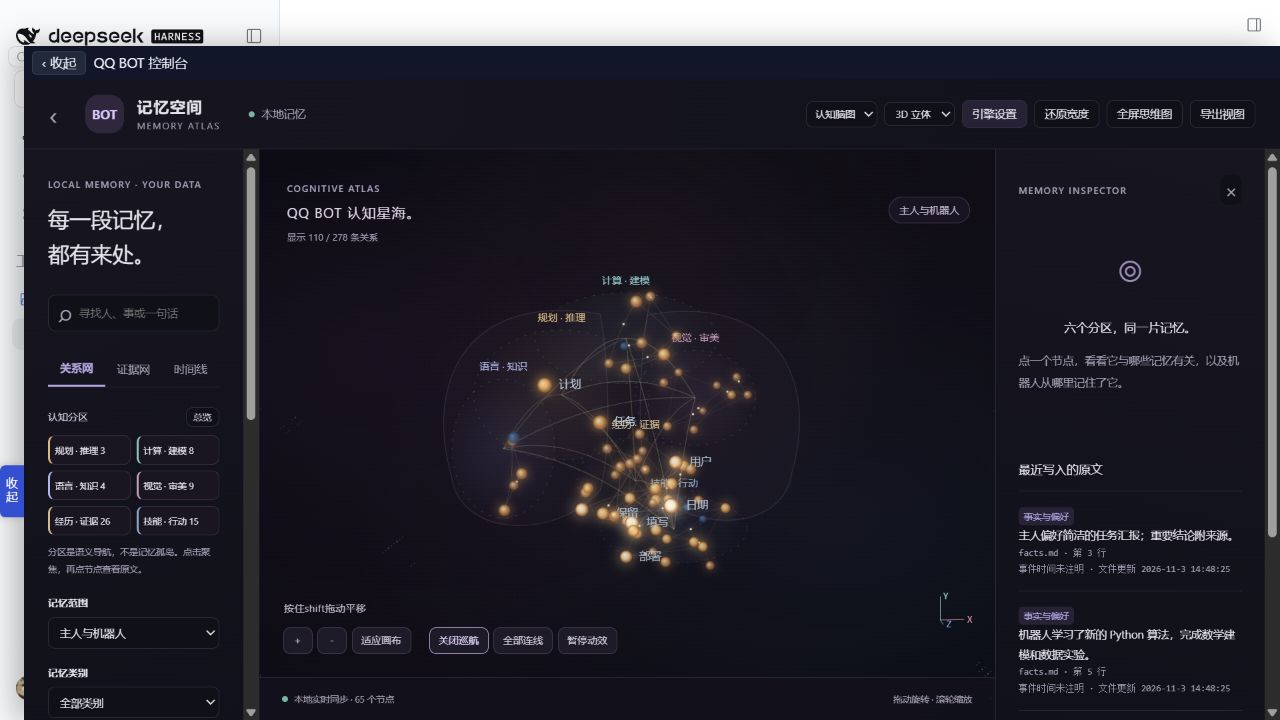
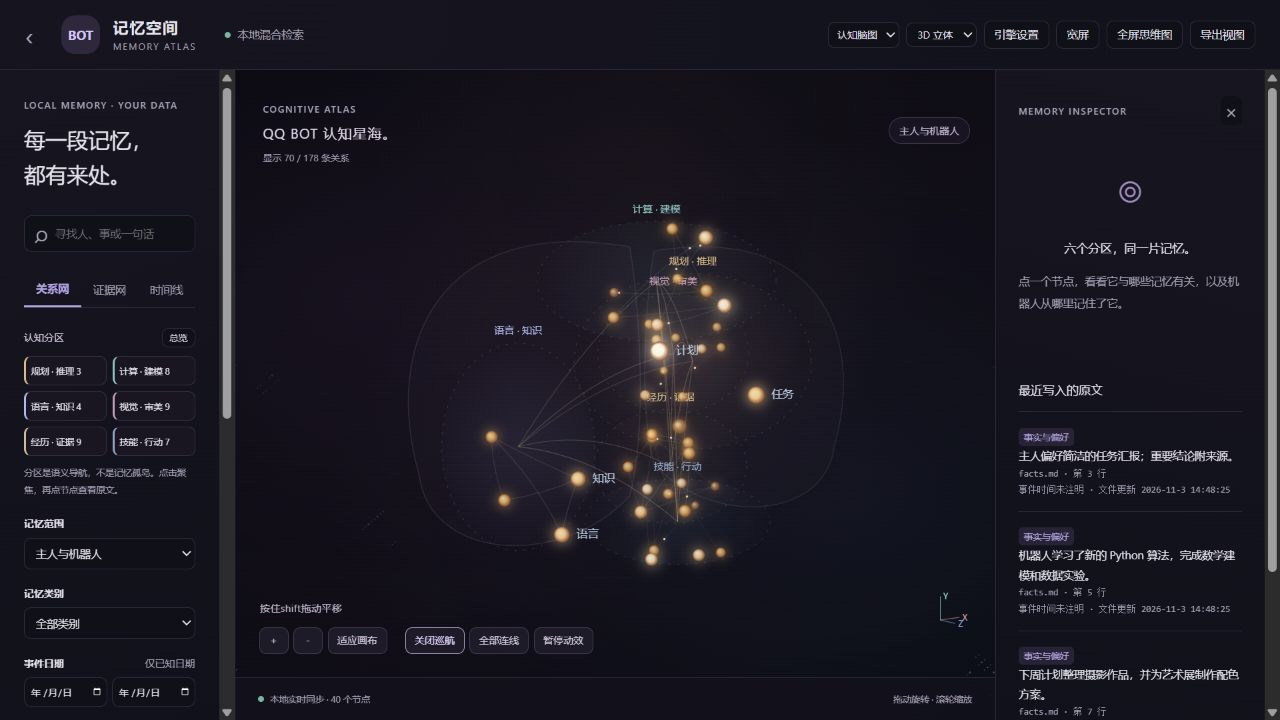
docs: add verified desktop GitHub install results and fresh demo screenshots

diff --git a/docs/VALIDATION.md b/docs/VALIDATION.md
@@ -1,0 +1,31 @@
+# v1.1.0 实际验证记录
+
+日期：2026-11-03。公开源码与截图仅使用虚构工作区；测试未登录 QQ、未发送消息、未复用正式桌面凭据。
+
+## 已执行
+
+| 项目 | 结果 |
+|---|---|
+| 旧版基线 `npm test` | 26 / 26 通过 |
+| 新版 `npm run check`、`npm test` | 语法通过，80 / 80 通过 |
+| 真模型 `npm run test:semantic` | 12 / 12 通过，非跳过；CPU ONNX 512 维、重排、SQLite 持久化、更新删除、隔离、预算、并发与降级 |
+| 公开记忆安装脚本 | Windows PowerShell 5.1 执行通过；独立 Python 3.11、固定依赖、模型文件 SHA256 校验；本次模型从本机已下载缓存复制，未重复验证远端全量下载 |
+| AstrBot 实际部署 | 固定官方源码、独立 Python 3.12.14；66 项 pyproject 依赖一致性检查通过 |
+| 官方 DSH 桥实际安装 | GitHub 固定提交校验通过；与 AstrBot 一同导入通过；再次部署保留已有桥接及工作区 |
+| NapCat 实际下载 | 固定 OneKey 包 SHA256 校验、解压通过；首次 QQ / 协议初始化明确为 partial |
+| DSH GitHub 拉取安装 | 桌面自带 CLI 0.2.1-rc.5，在全新隔离 profile 中从 GitHub 提交安装，pnpm 报告 1.1.0 |
+| 实际 DSH 宿主 | bundle 组合、侧栏注入、记忆页、CPU 混合检索原文返回、宽屏及全屏退出通过 |
+| 安装边界与数据保护 | 固定上游、模板只补缺失、已有桥不覆盖、下载失败不发布半成品、CSRF / 跨域拒绝、私有组件命名空间共存均有回归测试 |
+| 正式环境 | 正式 desktop profile 与原本地插件的 46 个基准文件 SHA256 保持不变 |
+
+新建隔离 profile 比把已有 `link:` 依赖直接替换为 GitHub 依赖更稳妥。测试中遇到包管理器在这种替换上的卡顿，因此远程安装验收改用全新 profile；开发源码和正式环境均留有独立备份。不要让包管理器清理指向重要源码的旧目录链接。
+
+## 尚需用户环境配置的部分
+
+- 未进行真实 QQ 登录、好友申请、群聊与语音消息端到端验收；这些操作需要自己的账号、触发规则及权限。
+- ingress 的宿主安装接口有行为测试；本次没有在测试宿主加载第二套 ingress 服务，避免与正在使用的桥接监听冲突。
+- GPT-SoVITS 仅提供源码准备，不把环境、模型权重或音色授权标记为已完成。
+- Reflect 是有来源的抽取式证据回顾，不是生成式完整 Hindsight；QQ 自动记忆注入未启用。
+- 最低兼容声明为 rc.2，实际桌面运行时验收版本为 rc.5。
+
+截图见 README。发布归档不包含测试日志、临时宿主 token、本机配置、数据库或模型文件。

diff --git a/README.md b/README.md
@@ -104,7 +104,7 @@ node tools/create-demo.mjs C:/path/to/empty-demo
 node tools/preview.mjs 8799
 ```
 
-真实语义集成测试需要额外提供 `QQBOT_MEMORY_PYTHON`、`QQBOT_MEMORY_MODEL`、`QQBOT_MEMORY_RERANKER`，再运行 `npm run test:semantic`；未配置时明确跳过，不把文本检索冒充向量测试。完整原理、资源与边界见 [MEMORY.md](docs/MEMORY.md)。问题报告不要附真实配置 / 聊天 / 密钥，见 [SECURITY](SECURITY.md)。
+真实语义集成测试需要额外提供 `QQBOT_MEMORY_PYTHON`、`QQBOT_MEMORY_MODEL`、`QQBOT_MEMORY_RERANKER`，再运行 `npm run test:semantic`；未配置时明确跳过，不把文本检索冒充向量测试。完整原理、资源与边界见 [MEMORY.md](docs/MEMORY.md)。本次实测记录见 [VALIDATION.md](docs/VALIDATION.md)。问题报告不要附真实配置 / 聊天 / 密钥，见 [SECURITY](SECURITY.md)。
 
 ## 致谢
 

diff --git a/docs/ISOLATED-TEST.md b/docs/ISOLATED-TEST.md
@@ -10,7 +10,7 @@ $env:QQBOT_CONFIG='C:\QQBotTest\qqbot.config.json'
 dsh --profile qqbot-test --from-default-profile web --dump-config
 dsh plugin --profile qqbot-test add github:ZOTTALL/dsh-xiaoyu-qqbot#v1.1.0
 dsh --profile qqbot-test --dump-config
-dsh --profile qqbot-test --port 18990
+dsh --profile qqbot-test --no-open --port 18990
 ```
 
 使用的是**桌面版自带的 dsh 命令**，测试的是同一运行时的 bundle 解析、依赖获取、配置组合与服务启动。它不创建第二个桌面 Electron 窗口，也不把插件装入正式 desktop profile；桌面外壳的操作仍应在自己选择安装后验收。
